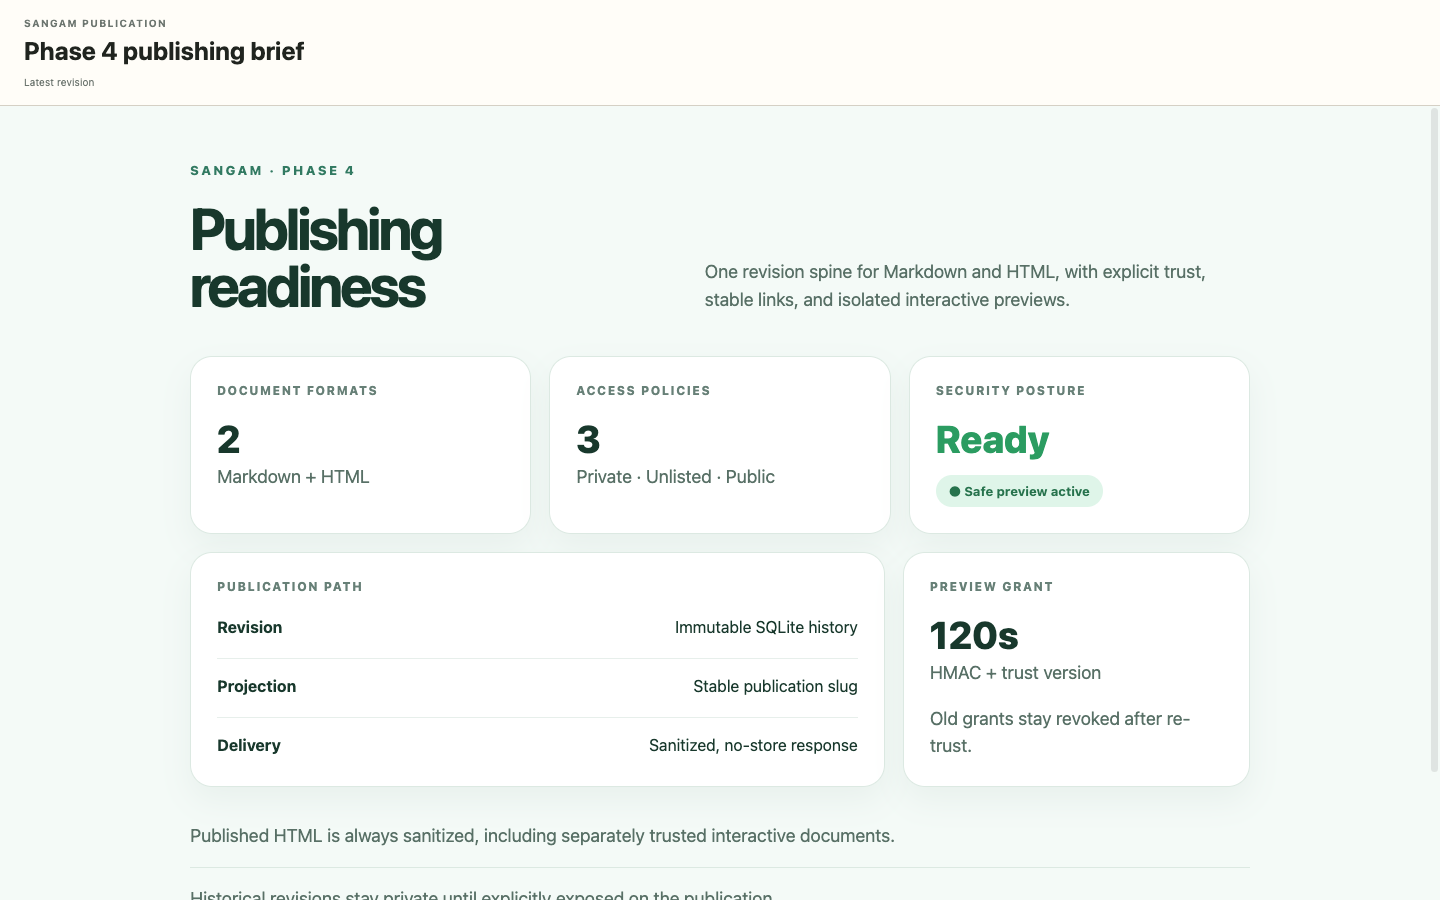
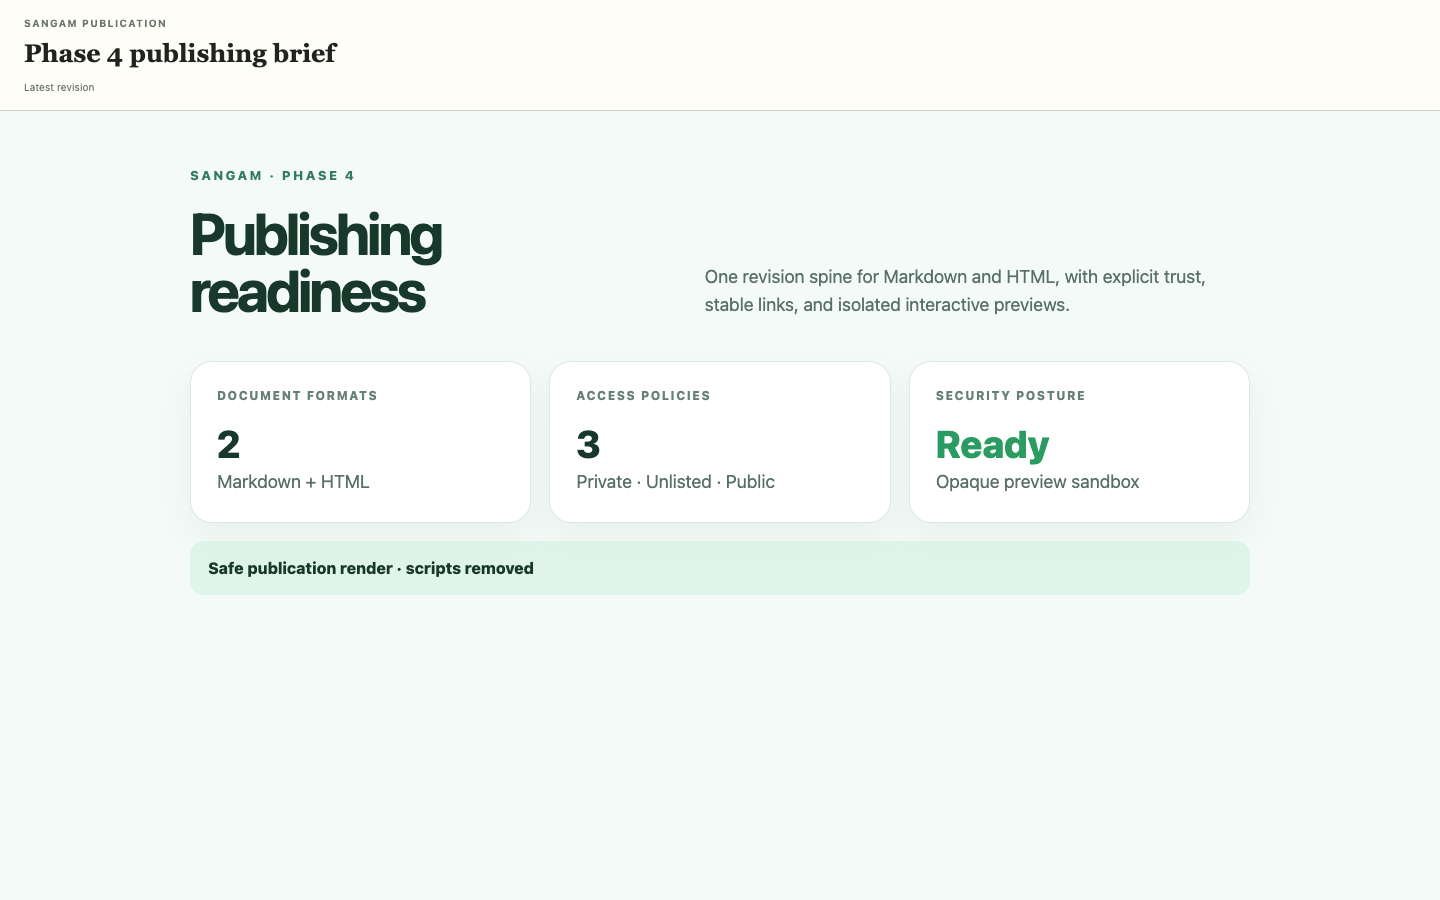
Fix trusted preview CORS and publication UI

diff --git a/frontend/src/components/document/DocumentInspector.tsx b/frontend/src/components/document/DocumentInspector.tsx
@@ -168,7 +168,9 @@ export function DocumentInspector({
             <section className="revision-render-preview">
               <header>
                 <strong>Rendered revision</strong>
-                <button onClick={() => setPreviewRevision(null)}>Close</button>
+                <button className="secondary-action" onClick={() => setPreviewRevision(null)}>
+                  Close
+                </button>
               </header>
               {document.content_type === 'text/markdown' ? (
                 <MarkdownPreview content={previewRevision.content} />

diff --git a/frontend/src/styles/document.css b/frontend/src/styles/document.css
@@ -190,7 +190,7 @@ button:disabled { cursor: default; opacity: .55; }
 .revision-render-preview .html-preview { min-height: 320px; }
 .publication-page { width: min(960px, calc(100% - 36px)); min-height: 100vh; margin: 0 auto; padding: 48px 0 80px; }
 .publication-page > header { margin-bottom: 24px; padding-bottom: 20px; border-bottom: 1px solid var(--line); }
-.publication-page > header h1 { margin: 4px 0 8px; font-size: clamp(36px, 6vw, 64px); line-height: 1; }
+.publication-page > header h1 { margin: 4px 0 8px; font-family: var(--font-display); font-size: clamp(36px, 6vw, 64px); line-height: var(--leading-tight); }
 .publication-page > header small { color: var(--muted); }
 .publication-page > .markdown-preview { min-height: 0; border: 0; padding: 0; }
 .publication-page > .html-preview { min-height: 72vh; border: 1px solid var(--line); border-radius: var(--radius-panel); }

diff --git a/tests/test_phase_four_publishing.py b/tests/test_phase_four_publishing.py
@@ -409,20 +409,22 @@ def test_trusted_preview_uses_fragment_grant_restrictive_csp_and_live_trust_chec
 
     rendered = client.get(
         "/api/v1/trusted-previews/content",
-        headers={"Authorization": f"Sangam-Preview {grant['token']}"},
+        headers={"Authorization": f"Sangam-Preview {grant['token']}", "Origin": "null"},
     )
     assert rendered.status_code == 200
     assert "window.previewRan = true" in rendered.text
     assert "default-src 'none'" in rendered.text
     assert "connect-src 'none'" in rendered.text
     assert rendered.headers["Cache-Control"] == "no-store, max-age=0"
+    assert rendered.headers["Access-Control-Allow-Origin"] == "null"
     preview_asset = client.get(
         "/api/v1/trusted-previews/asset",
         params={"path": "preview.png"},
-        headers={"Authorization": f"Sangam-Preview {grant['token']}"},
+        headers={"Authorization": f"Sangam-Preview {grant['token']}", "Origin": "null"},
     )
     assert preview_asset.status_code == 200
     assert preview_asset.content == b"trusted-preview-image"
+    assert preview_asset.headers["Access-Control-Allow-Origin"] == "null"
     assert (
         client.get(
             "/api/v1/trusted-previews/asset",
@@ -490,6 +492,54 @@ def test_trusted_preview_uses_fragment_grant_restrictive_csp_and_live_trust_chec
         ("trusted_interactive", "untrusted"),
         ("untrusted", "trusted_interactive"),
     ]
+
+
+def test_trusted_preview_cors_is_limited_to_opaque_preview_requests(client: TestClient) -> None:
+    preflight = client.options(
+        "/api/v1/trusted-previews/content",
+        headers={
+            "Origin": "null",
+            "Access-Control-Request-Method": "GET",
+            "Access-Control-Request-Headers": "authorization",
+        },
+    )
+    assert preflight.status_code == 204
+    assert preflight.headers["Access-Control-Allow-Origin"] == "null"
+    assert preflight.headers["Access-Control-Allow-Methods"] == "GET"
+    assert preflight.headers["Access-Control-Allow-Headers"] == "Authorization"
+
+    foreign_origin = client.options(
+        "/api/v1/trusted-previews/content",
+        headers={
+            "Origin": "https://attacker.example",
+            "Access-Control-Request-Method": "GET",
+            "Access-Control-Request-Headers": "authorization",
+        },
+    )
+    assert foreign_origin.status_code == 400
+    assert foreign_origin.headers.get("Access-Control-Allow-Origin") is None
+
+    unsafe_method = client.options(
+        "/api/v1/trusted-previews/content",
+        headers={
+            "Origin": "null",
+            "Access-Control-Request-Method": "POST",
+            "Access-Control-Request-Headers": "authorization",
+        },
+    )
+    assert unsafe_method.status_code == 400
+    assert unsafe_method.headers.get("Access-Control-Allow-Origin") is None
+
+    unrelated = client.options(
+        "/api/v1/health",
+        headers={
+            "Origin": "null",
+            "Access-Control-Request-Method": "GET",
+            "Access-Control-Request-Headers": "authorization",
+        },
+    )
+    assert unrelated.status_code == 400
+    assert unrelated.headers.get("Access-Control-Allow-Origin") is None
 
 
 def test_private_publication_requires_trusted_proxy_identity(tmp_path: Path) -> None:

diff --git a/src/sangam/api.py b/src/sangam/api.py
@@ -178,6 +178,49 @@ def create_app(settings: Settings | None = None) -> FastAPI:
         allow_headers=["*"],
     )
 
+    trusted_preview_api_paths = {
+        "/api/v1/trusted-previews/content",
+        "/api/v1/trusted-previews/asset",
+    }
+
+    @app.middleware("http")
+    async def trusted_preview_opaque_origin_cors(request: Request, call_next):
+        is_preview_api = request.url.path in trusted_preview_api_paths
+        expected_host = resolved_settings.trusted_preview_host
+        is_preview_host = not expected_host or request.url.hostname == expected_host
+        is_opaque_origin = request.headers.get("origin") == "null"
+        if not (is_preview_api and is_preview_host and is_opaque_origin):
+            return await call_next(request)
+
+        if request.method == "OPTIONS":
+            requested_method = request.headers.get("access-control-request-method", "").upper()
+            requested_headers = {
+                header.strip().casefold()
+                for header in request.headers.get("access-control-request-headers", "").split(",")
+                if header.strip()
+            }
+            if requested_method != "GET" or not requested_headers.issubset({"authorization"}):
+                return Response(status_code=400)
+            return Response(
+                status_code=204,
+                headers={
+                    "Access-Control-Allow-Origin": "null",
+                    "Access-Control-Allow-Methods": "GET",
+                    "Access-Control-Allow-Headers": "Authorization",
+                    "Cache-Control": "no-store, max-age=0",
+                    "Vary": "Origin, Access-Control-Request-Method, Access-Control-Request-Headers",
+                },
+            )
+
+        response = await call_next(request)
+        response.headers["Access-Control-Allow-Origin"] = "null"
+        vary = {
+            value.strip() for value in response.headers.get("Vary", "").split(",") if value.strip()
+        }
+        vary.add("Origin")
+        response.headers["Vary"] = ", ".join(sorted(vary))
+        return response
+
     @app.exception_handler(SangamError)
     async def handle_sangam_error(_request: Request, error: SangamError) -> JSONResponse:
         status = 500

diff --git a/docs/PHASE_4.md b/docs/PHASE_4.md
@@ -87,6 +87,9 @@ use `no-store` and `no-referrer`.
 
 The preview iframe has `allow-scripts` but not `allow-same-origin`, so its
 effective origin is opaque and it cannot read application credentials or DOM.
+Only the token-protected preview content and asset endpoints accept the
+resulting `Origin: null` CORS preflight; every other API route continues to
+reject opaque origins.
 Its CSP denies network access unless an operator explicitly configures allowed
 `connect-src` origins. Relative assets require the same live, scoped preview
 grant. Any trust transition invalidates an already-issued grant at the next
@@ -139,7 +142,7 @@ Automated backend coverage includes:
 - Agent `publish` capability path enforcement and human-only trust changes.
 - HMAC tampering, expiry, live trust revocation, exact asset scope, path
   traversal, trust-version replay prevention, no-store, referrer policy, and
-  CSP assertions.
+  CSP assertions, including endpoint-scoped opaque-origin CORS preflight.
 - Canonical idempotency-key reuse across document trust and publication
   mutations, including migration of Phase 4 preview-build records.
 - Cloudflare Access JWT signature, issuer, audience, and email validation.